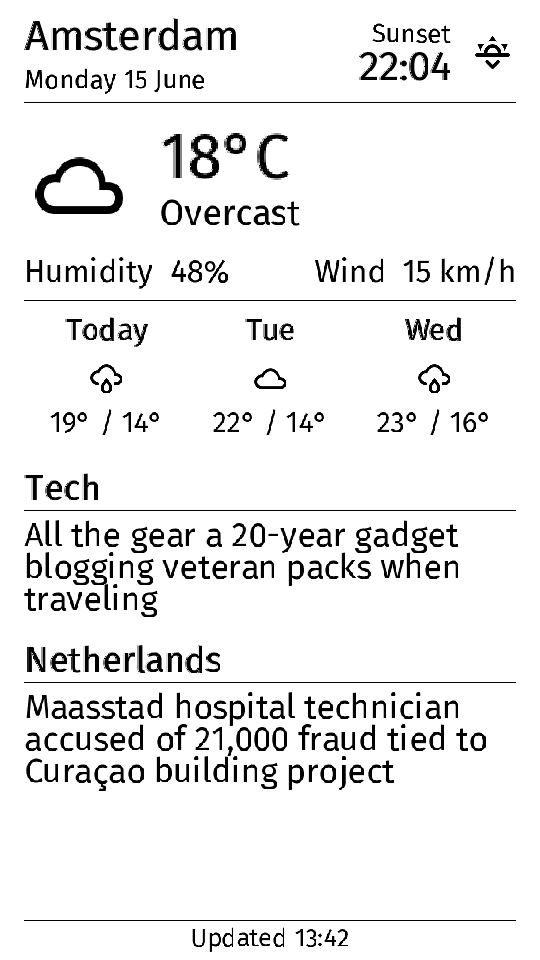
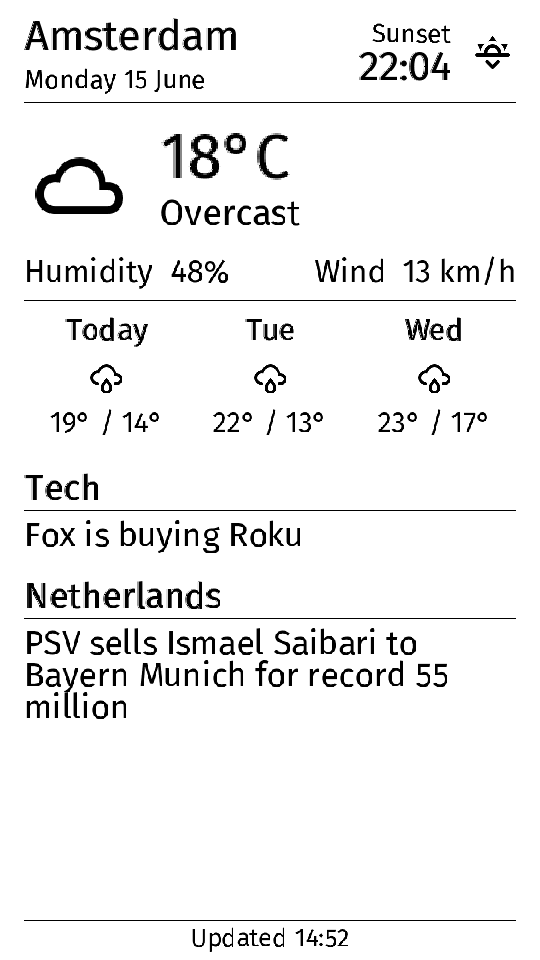
docs: add Photos-mode screenshot; show all three modes in README
Recaptured all three modes from the device (Photos with a neutral Lorem Picsum
sample, Digest, Smart Home) and updated the README screenshots section + repo
description to reflect Photos / Digest / Smart Home.

diff --git a/README.md b/README.md
@@ -26,13 +26,15 @@ http://t5frame.local        (or the device IP shown on screen)
 
 ---
 
-## Screenshot
+## Screenshots — the three modes
 
-<img src="docs/screenshot-metrics.png" width="270" alt="Metrics dashboard: city, sunrise, temperature, 3-day forecast, and rotating headlines">&nbsp;&nbsp;<img src="docs/screenshot-home.png" width="270" alt="Home dashboard: weather on top, 2x2 indoor zone grid from Home Assistant">
+<img src="docs/screenshot-photos.png" width="240" alt="Photos mode — browser-dithered image on the e-paper"> <img src="docs/screenshot-metrics.png" width="240" alt="Digest mode — city, sunrise/sunset, temperature, 3-day forecast, rotating headlines"> <img src="docs/screenshot-home.png" width="240" alt="Smart Home mode — weather on top, 2x2 grid of Home Assistant metric tiles">
 
-*Left: metrics dashboard. Right: Home dashboard (weather + indoor zones from Home
-Assistant). Captured live from `/api/fb` — in the web UI, **Settings → 📷
-Screenshot** saves the current screen as a PNG.*
+*Left → right: **Photos** (browser-dithered image), **Digest** (weather +
+sunrise/sunset + rotating news headlines), **Smart Home** (Home Assistant metric
+tiles). All captured live from `/api/fb`; in the web UI, **Settings → 📷
+Screenshot** exports the current screen as a PNG. (Photo sample via
+[Lorem Picsum](https://picsum.photos).)*
 
 ## Hardware
 